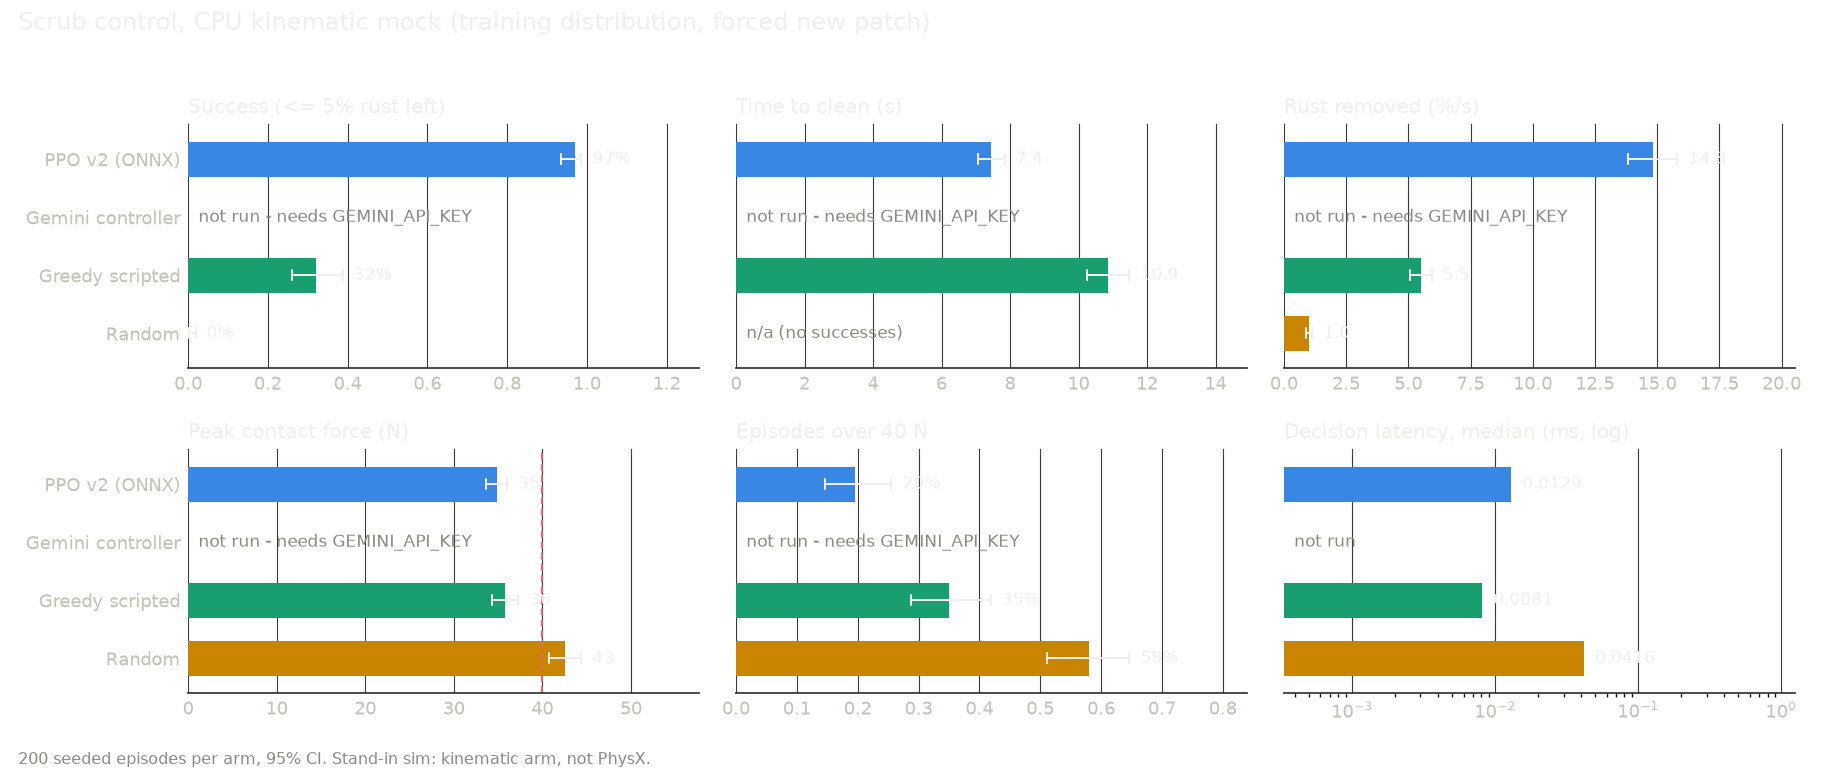
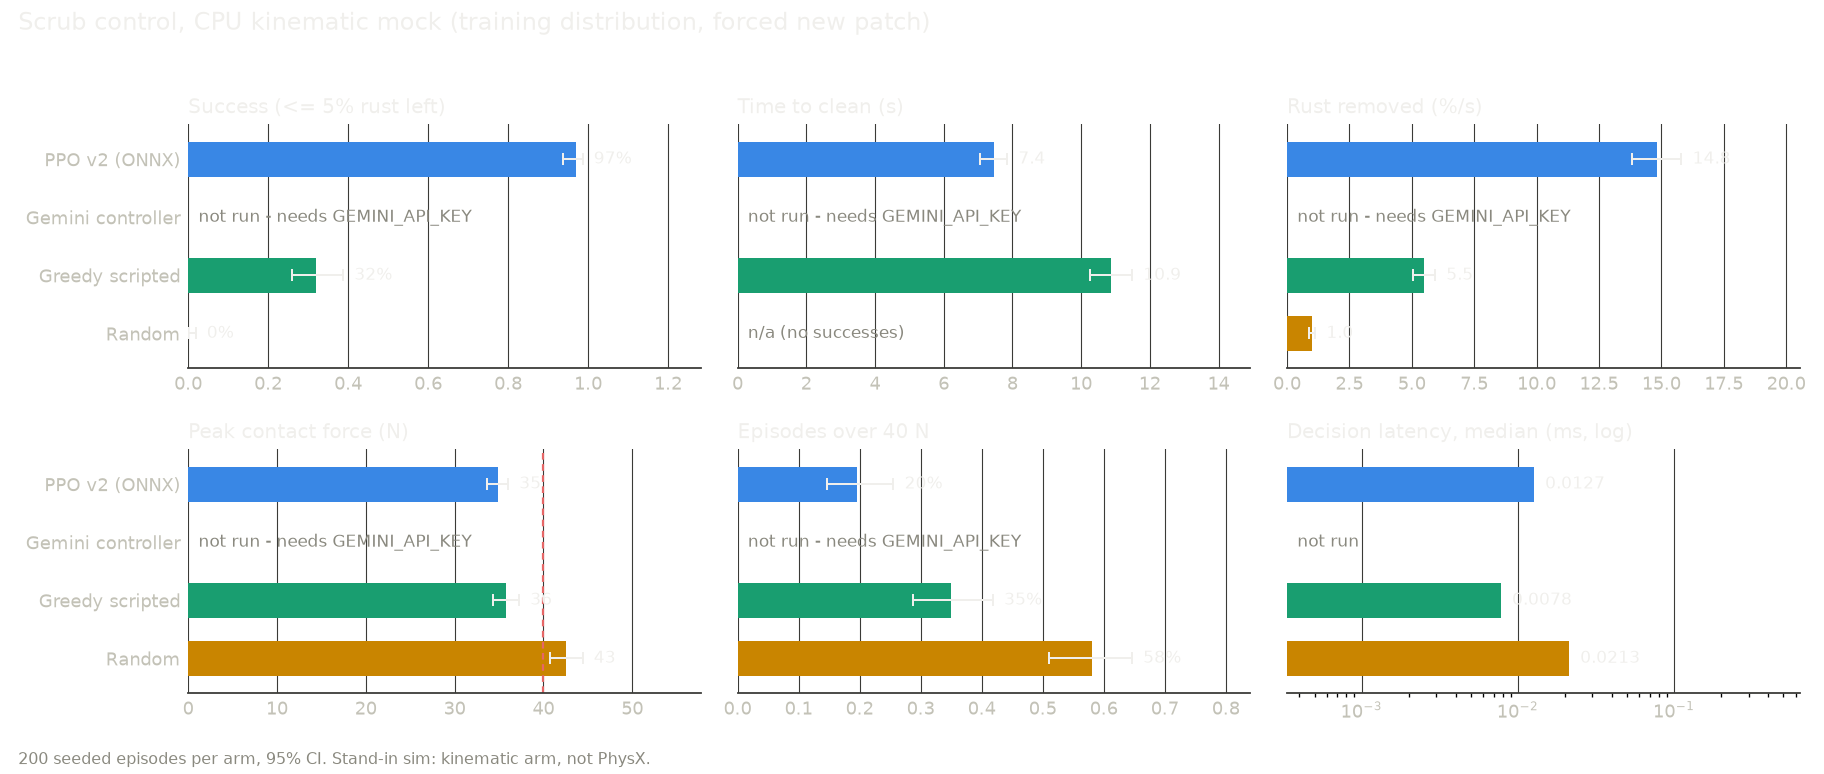
bench: final scrub results incl. Isaac Lab random arm (all arms share scenario hashes)

diff --git a/bench/scrub.py b/bench/scrub.py
@@ -89,7 +89,7 @@ def isaac_section(root: Path):
                 arms[label] = {**scrub_summary(d["episodes"], None, "Isaac Lab GPU, batched", 0.0),
                                "scenario_hash": d["scenario_hash"], "seed": d["seed"],
                                "batched_act_ms_median": d["batched_act_ms_median"]}
-        arms["Gemini controller"] = {"status": "not run in Isaac Lab (API latency would need a paused sim; CPU mock only)"}
+        arms["Gemini controller"] = {"status": "not run in Isaac (CPU mock only)", "why": "API latency would need a paused PhysX sim"}
         out[preset] = arms
     return out
 

diff --git a/runs_sample/bench/scrub.md b/runs_sample/bench/scrub.md
@@ -5,8 +5,8 @@
 | method | n | success | time to clean s | peak force N | p95 N | >40 N | removed %/s | decision latency | cost/ep |
 |---|---|---|---|---|---|---|---|---|---|
 | PPO v2 (ONNX) | 200 | 97.0% [93.6%, 98.6%] | 7.45 [7.05, 7.85] | 34.8 [33.7, 36.0] | 43.08 | 19.5% [14.6%, 25.5%] | 14.82 [13.83, 15.80] | 0.013 ms (p90 0.015) | $0 (on robot) |
-| Greedy scripted | 200 | 32.0% [25.9%, 38.8%] | 10.87 [10.25, 11.48] | 35.8 [34.3, 37.3] | 49.11 | 35.0% [28.7%, 41.8%] | 5.49 [5.05, 5.93] | 0.008 ms (p90 0.150) | $0 (on robot) |
-| Random | 200 | 0.0% [0.0%, 1.9%] | - | 42.6 [40.7, 44.4] | 59.08 | 58.0% [51.1%, 64.6%] | 1.00 [0.87, 1.13] | 0.042 ms (p90 0.067) | $0 (on robot) |
+| Greedy scripted | 200 | 32.0% [25.9%, 38.8%] | 10.87 [10.25, 11.48] | 35.8 [34.3, 37.3] | 49.11 | 35.0% [28.7%, 41.8%] | 5.49 [5.05, 5.93] | 0.008 ms (p90 0.147) | $0 (on robot) |
+| Random | 200 | 0.0% [0.0%, 1.9%] | - | 42.6 [40.7, 44.4] | 59.08 | 58.0% [51.1%, 64.6%] | 1.00 [0.87, 1.13] | 0.021 ms (p90 0.038) | $0 (on robot) |
 | Gemini controller | - | not run - needs GEMINI_API_KEY | | | | | | | |
 
 ## Isaac Lab, train scenarios
@@ -15,15 +15,16 @@
 |---|---|---|---|---|---|---|---|---|---|
 | PPO v2 | 256 | 95.3% [92.0%, 97.3%] | 7.05 [6.72, 7.38] | 30.7 [29.7, 31.6] | 35.85 | 1.9% [0.8%, 4.5%] | 15.22 [14.35, 16.09] | 8.34 ms / 256 envs batched | $0 (on robot) |
 | Greedy scripted | 256 | 32.0% [26.6%, 38.0%] | 10.96 [10.33, 11.59] | 38.8 [37.4, 40.3] | 53.7 | 46.5% [40.5%, 52.6%] | 5.65 [5.17, 6.12] | 37.97 ms / 256 envs batched | $0 (on robot) |
-| Gemini controller | - | not run in Isaac Lab (API latency would need a paused sim; CPU mock only) | | | | | | | |
+| Random | 256 | 0.0% [0.0%, 1.5%] | - | 49.2 [47.4, 51.0] | 68.95 | 68.4% [62.4%, 73.8%] | 0.95 [0.84, 1.06] | 8.87 ms / 256 envs batched | $0 (on robot) |
+| Gemini controller | - | not run in Isaac (CPU mock only) | | | | | | | |
 
 ## CPU kinematic mock, rig scenarios
 
 | method | n | success | time to clean s | peak force N | p95 N | >40 N | removed %/s | decision latency | cost/ep |
 |---|---|---|---|---|---|---|---|---|---|
-| PPO v2 (ONNX) | 200 | 96.0% [92.3%, 98.0%] | 7.70 [7.32, 8.08] | 34.2 [33.5, 35.0] | 43.06 | 19.5% [14.6%, 25.5%] | 13.66 [12.92, 14.41] | 0.015 ms (p90 0.019) | $0 (on robot) |
-| Greedy scripted | 200 | 28.0% [22.2%, 34.6%] | 11.14 [10.48, 11.81] | 35.2 [34.0, 36.4] | 49.31 | 32.5% [26.4%, 39.3%] | 5.13 [4.72, 5.55] | 0.008 ms (p90 0.155) | $0 (on robot) |
-| Random | 200 | 0.0% [0.0%, 1.9%] | - | 41.4 [39.9, 42.8] | 57.27 | 55.0% [48.1%, 61.7%] | 0.95 [0.82, 1.07] | 0.033 ms (p90 0.049) | $0 (on robot) |
+| PPO v2 (ONNX) | 200 | 96.0% [92.3%, 98.0%] | 7.70 [7.32, 8.08] | 34.2 [33.5, 35.0] | 43.06 | 19.5% [14.6%, 25.5%] | 13.66 [12.92, 14.41] | 0.012 ms (p90 0.014) | $0 (on robot) |
+| Greedy scripted | 200 | 28.0% [22.2%, 34.6%] | 11.14 [10.48, 11.81] | 35.2 [34.0, 36.4] | 49.31 | 32.5% [26.4%, 39.3%] | 5.13 [4.72, 5.55] | 0.008 ms (p90 0.161) | $0 (on robot) |
+| Random | 200 | 0.0% [0.0%, 1.9%] | - | 41.4 [39.9, 42.8] | 57.27 | 55.0% [48.1%, 61.7%] | 0.95 [0.82, 1.07] | 0.019 ms (p90 0.032) | $0 (on robot) |
 | Gemini controller | - | not run - needs GEMINI_API_KEY | | | | | | | |
 
 ## Isaac Lab, rig scenarios
@@ -32,7 +33,8 @@
 |---|---|---|---|---|---|---|---|---|---|
 | PPO v2 | 256 | 97.3% [94.5%, 98.7%] | 7.06 [6.74, 7.39] | 29.9 [29.4, 30.3] | 34.91 | 1.2% [0.4%, 3.4%] | 15.39 [14.56, 16.22] | 8.33 ms / 256 envs batched | $0 (on robot) |
 | Greedy scripted | 256 | 33.2% [27.7%, 39.2%] | 11.17 [10.57, 11.77] | 38.3 [37.1, 39.5] | 53.03 | 46.5% [40.5%, 52.6%] | 5.66 [5.24, 6.09] | 37.32 ms / 256 envs batched | $0 (on robot) |
-| Gemini controller | - | not run in Isaac Lab (API latency would need a paused sim; CPU mock only) | | | | | | | |
+| Random | 256 | 0.0% [0.0%, 1.5%] | - | 48.6 [46.9, 50.2] | 70.03 | 68.0% [62.0%, 73.4%] | 0.93 [0.82, 1.04] | 7.42 ms / 256 envs batched | $0 (on robot) |
+| Gemini controller | - | not run in Isaac (CPU mock only) | | | | | | | |
 
 ## Isaac Lab prior evals (existing files)
 
